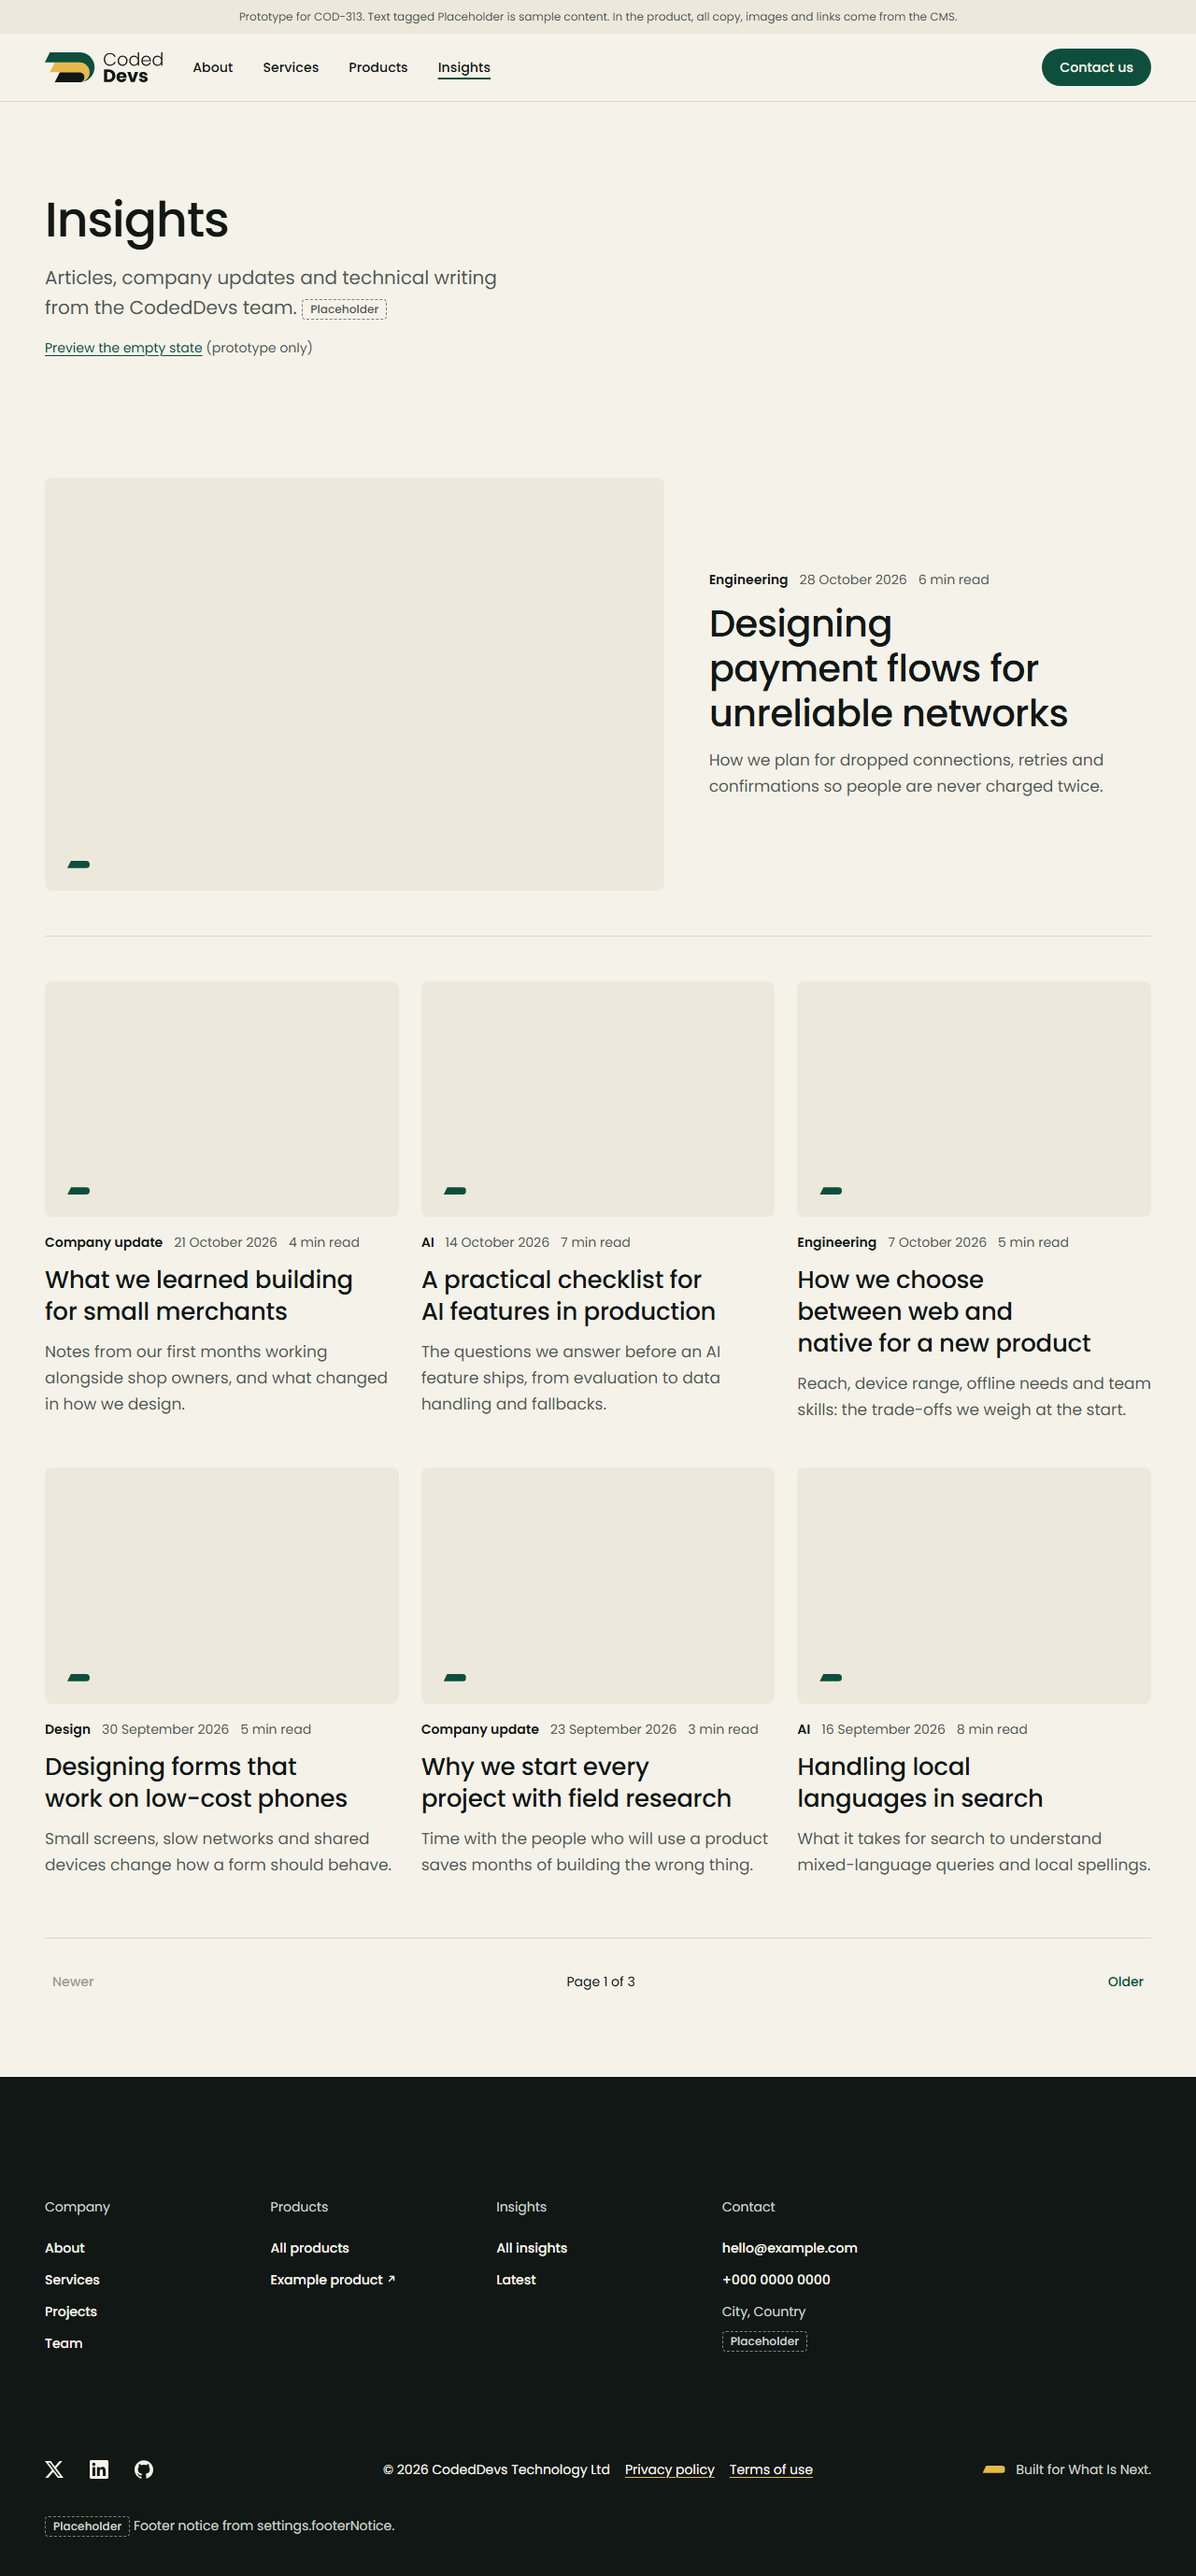
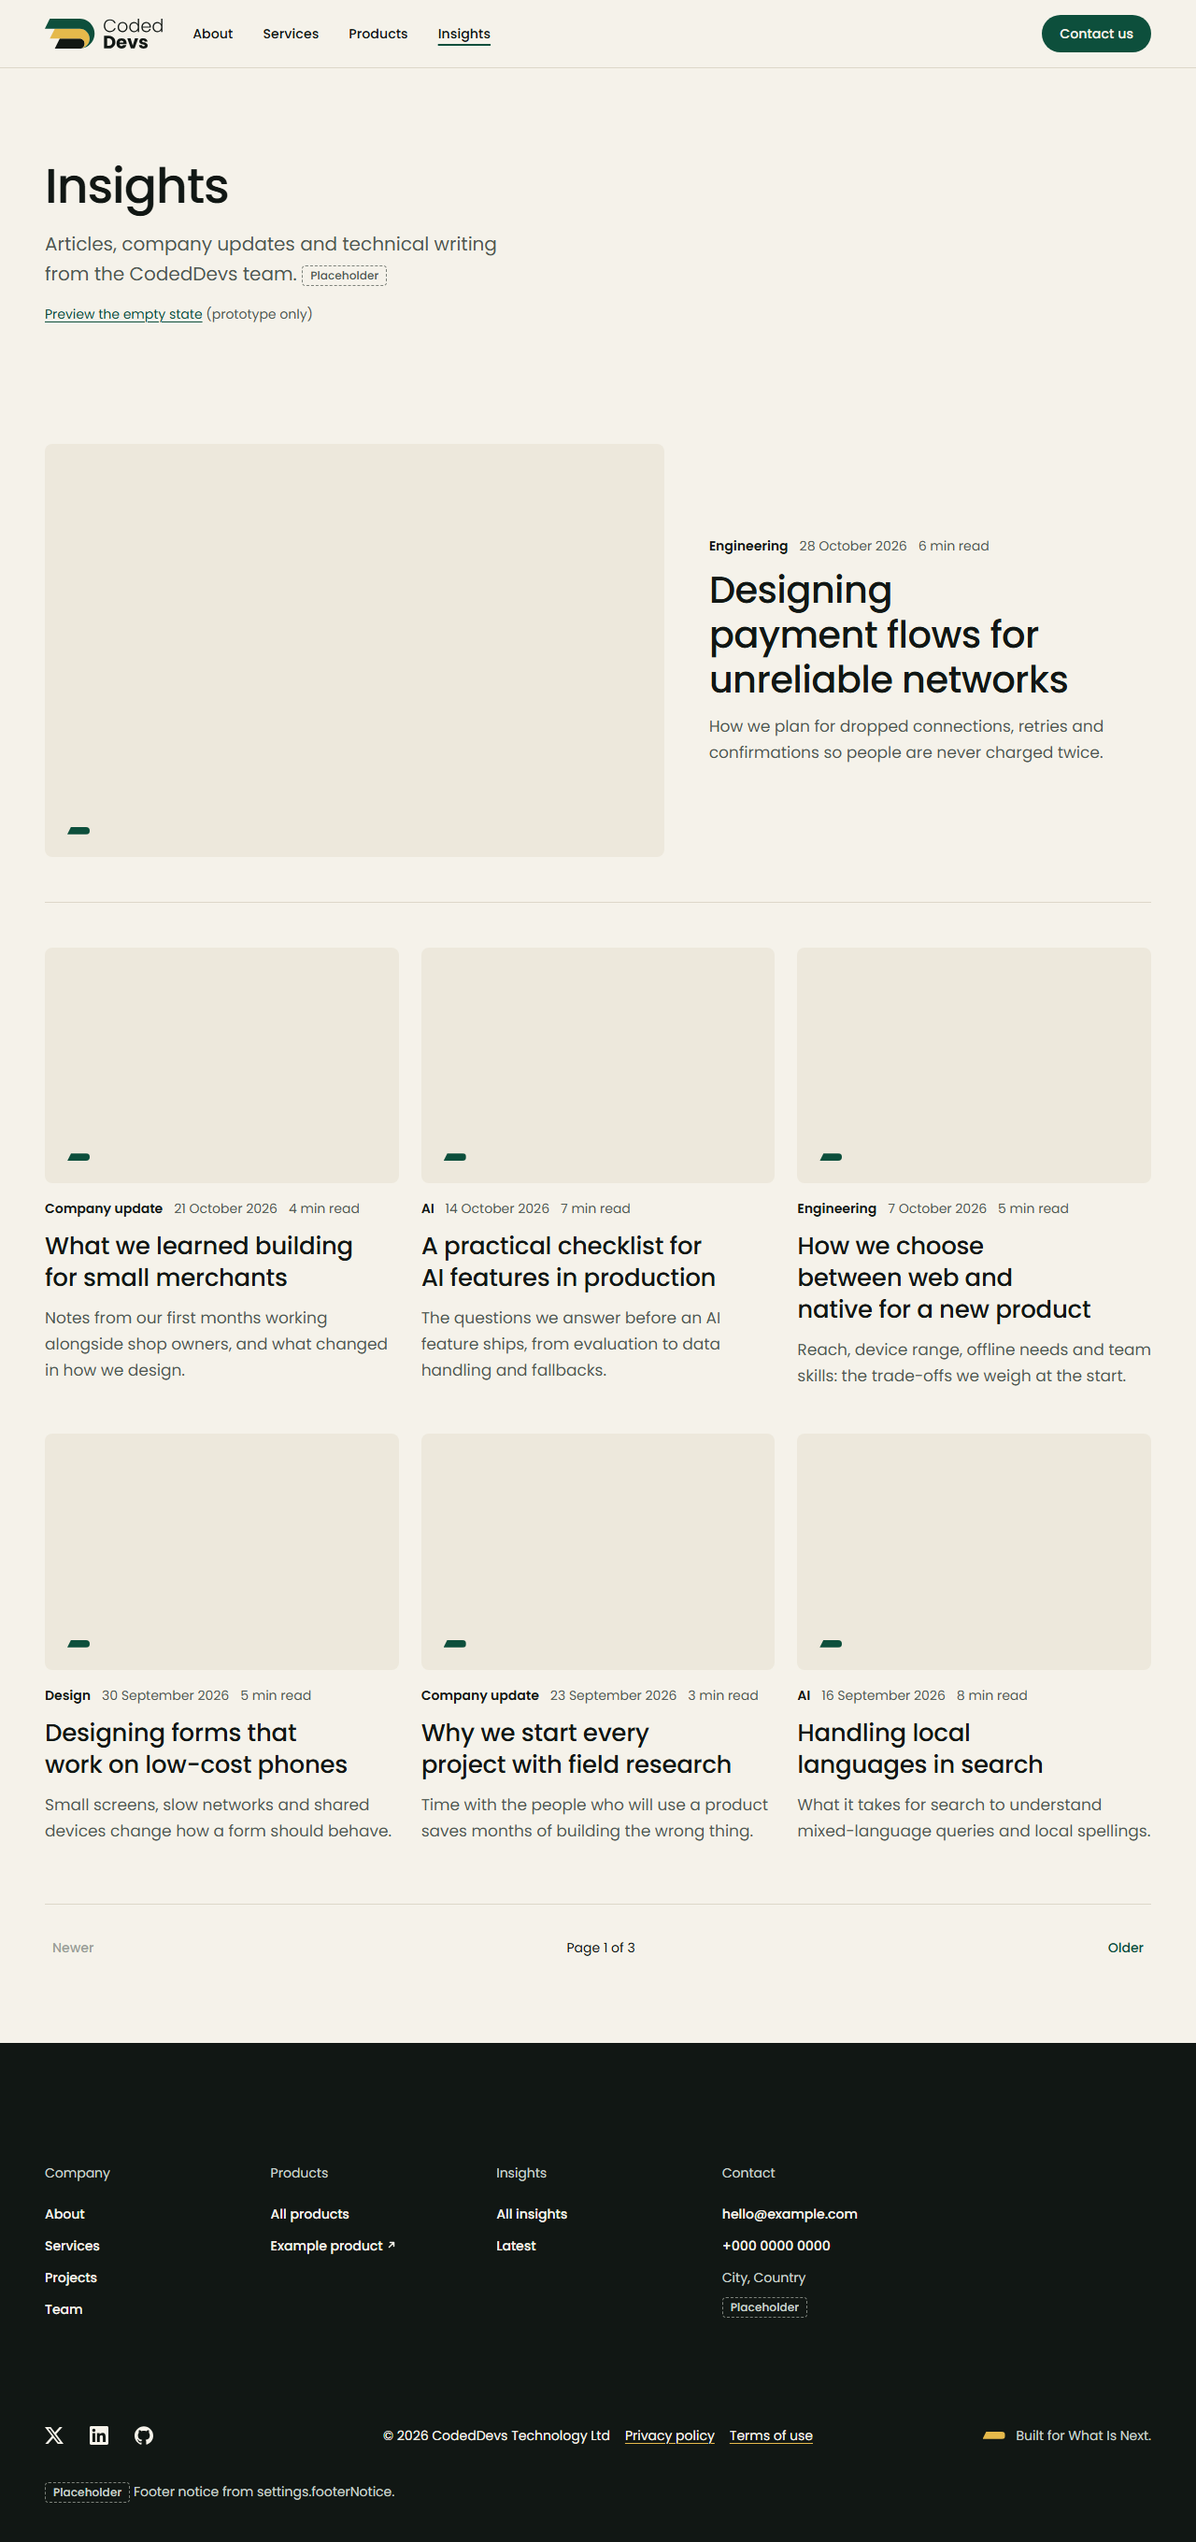
docs: remove prototype label bar from public prototypes (COD-313)

diff --git a/docs/prototypes/public/article.html b/docs/prototypes/public/article.html
@@ -34,10 +34,6 @@
   </head>
   <body>
     <a class="skip-link" href="#main">Skip to content</a>
-    <p class="proto-bar">
-      Prototype for COD-313. Text tagged Placeholder is sample content. In the
-      product, all copy, images and links come from the CMS.
-    </p>
     <header class="site-header">
       <div class="site-header__bar">
         <a

diff --git a/docs/prototypes/public/index.html b/docs/prototypes/public/index.html
@@ -32,10 +32,6 @@
   </head>
   <body>
     <a class="skip-link" href="#main">Skip to content</a>
-    <p class="proto-bar">
-      Prototype for COD-313. Text tagged Placeholder is sample content. In the
-      product, all copy, images and links come from the CMS.
-    </p>
     <header class="site-header">
       <div class="site-header__bar">
         <a

diff --git a/docs/prototypes/public/insights.html b/docs/prototypes/public/insights.html
@@ -32,10 +32,6 @@
   </head>
   <body>
     <a class="skip-link" href="#main">Skip to content</a>
-    <p class="proto-bar">
-      Prototype for COD-313. Text tagged Placeholder is sample content. In the
-      product, all copy, images and links come from the CMS.
-    </p>
     <header class="site-header">
       <div class="site-header__bar">
         <a

diff --git a/docs/prototypes/public/states.html b/docs/prototypes/public/states.html
@@ -32,10 +32,6 @@
   </head>
   <body>
     <a class="skip-link" href="#main">Skip to content</a>
-    <p class="proto-bar">
-      Prototype for COD-313. Text tagged Placeholder is sample content. In the
-      product, all copy, images and links come from the CMS.
-    </p>
     <header class="site-header">
       <div class="site-header__bar">
         <a
